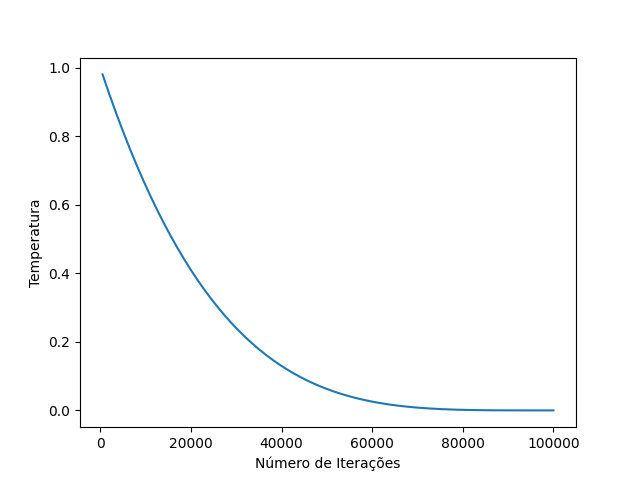
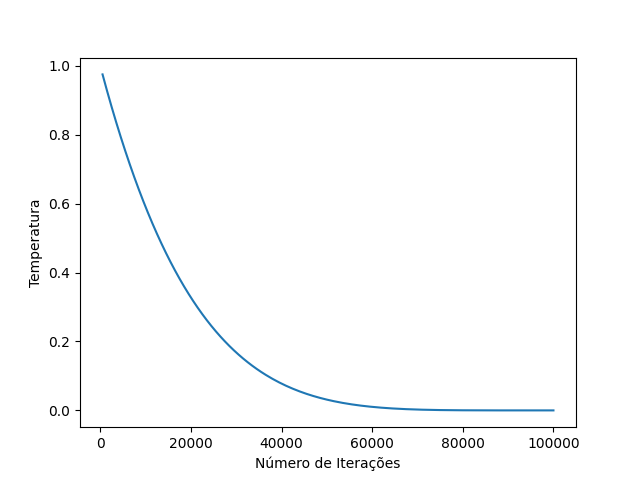
feat: random search function

diff --git a/sa.py b/sa.py
@@ -1,4 +1,3 @@
-import math
 import random
 import matplotlib.pyplot as plt
 
@@ -67,13 +66,14 @@ def generate_neighbor(solution, num_var):
 
     return neighbor
 
-def random_search(initial_solution, max_iter, var_dict, matrix, num_rows):
+def random_search(initial_solution, max_iter, var_dict, matrix, num_rows, max_range):
     current_solution = initial_solution
     current_score = evaluate_solution(current_solution, var_dict, matrix)
     best_solution = current_solution.copy()
     best_score = num_rows - current_score
     scores = [best_score]
     iter = []
+    rangeScore = 0
 
     for it in range(max_iter):
         # Gerar uma nova solução aleatória
@@ -90,23 +90,26 @@ def random_search(initial_solution, max_iter, var_dict, matrix, num_rows):
             best_solution = current_solution.copy()
             best_score = current_score
 
-        map_b_solution = map_solution(len(current_solution), best_solution)
-
-        # Armazenar a melhor solução encontrada a cada iteração
-        scores.append(new_score)
-        iter.append(it)
+        # Define um range de plot para melhorar a visualização do gráfico
+        rangeScore = rangeScore + 1
+        if (rangeScore == max_range):
+            rangeScore = 0
+            scores.append(num_rows - new_score)
+            iter.append(it)
 
     # Plotar o gráfico
+    plt.ylim(0, num_rows)
     plt.plot(range(0, len(iter)+1), scores)
-    plt.xlabel('Número de Iterações')
+    plt.xlabel('Número de Iterações (Núm. Iterações/Range)')
     plt.ylabel('Número de Cláusulas Satisfeitas')
     #plt.show()
     plt.savefig('rs.png')
 
+    map_b_solution = map_solution(len(current_solution), best_solution)
     return map_b_solution, best_score
 
 
-def simulated_annealing(initial_solution, var_dict, matrix, max_iter, t, num_var, num_rows):
+def simulated_annealing(initial_solution, var_dict, matrix, max_iter, t, num_var, num_rows, max_range):
     current_solution = initial_solution
     current_score = evaluate_solution(current_solution, var_dict, matrix)
     best_solution = current_solution.copy()
@@ -143,7 +146,7 @@ def simulated_annealing(initial_solution, var_dict, matrix, max_iter, t, num_var
         
         # Define um range de plot para melhorar a visualização do gráfico
         rangeScore = rangeScore + 1
-        if (rangeScore == 1000):
+        if (rangeScore == max_range):
             rangeScore = 0
             scores.append(current_score)  
             temp.append(temperature)
@@ -152,6 +155,7 @@ def simulated_annealing(initial_solution, var_dict, matrix, max_iter, t, num_var
             print(temperature)
 
     # Plotar o gráfico
+    #plt.ylim(0, num_rows)
     plt.plot(range(0, len(iter)+1), scores)
     plt.xlabel('Número de Iterações (Núm. Iterações/Range)')
     plt.ylabel('Quantidade de Cláusulas Aceitas')
@@ -162,19 +166,22 @@ def simulated_annealing(initial_solution, var_dict, matrix, max_iter, t, num_var
     plt.xlabel('Número de Iterações')
     plt.ylabel('Temperatura')
     plt.savefig('temperatura.png')
+    plt.close()
 
     return map_b_solution, best_score
 
 matrix, num_var, num_rows = read_cnf("uf20-01.cnf")
-
 initial_solution = initial_random_solution(num_var)
-
 var_dict = map_solution(num_var, initial_solution)
 
-num_it = 1000
+num_it = 100000
+max_range = 500
 
-#r = simulated_annealing(initial_solution, var_dict, matrix, num_it, 4, num_var, num_rows)
+result_sa = simulated_annealing(initial_solution, var_dict, matrix, num_it, 5, num_var, num_rows, max_range)
+result_rs = random_search(initial_solution, num_it, var_dict, matrix, num_rows, max_range)
 
-rs = random_search(initial_solution, num_it, var_dict, matrix, num_rows)
+print("Simulated Annealing:")
+print(result_sa)
 
-print(rs)
+print("Random Search:")
+print(result_rs)
